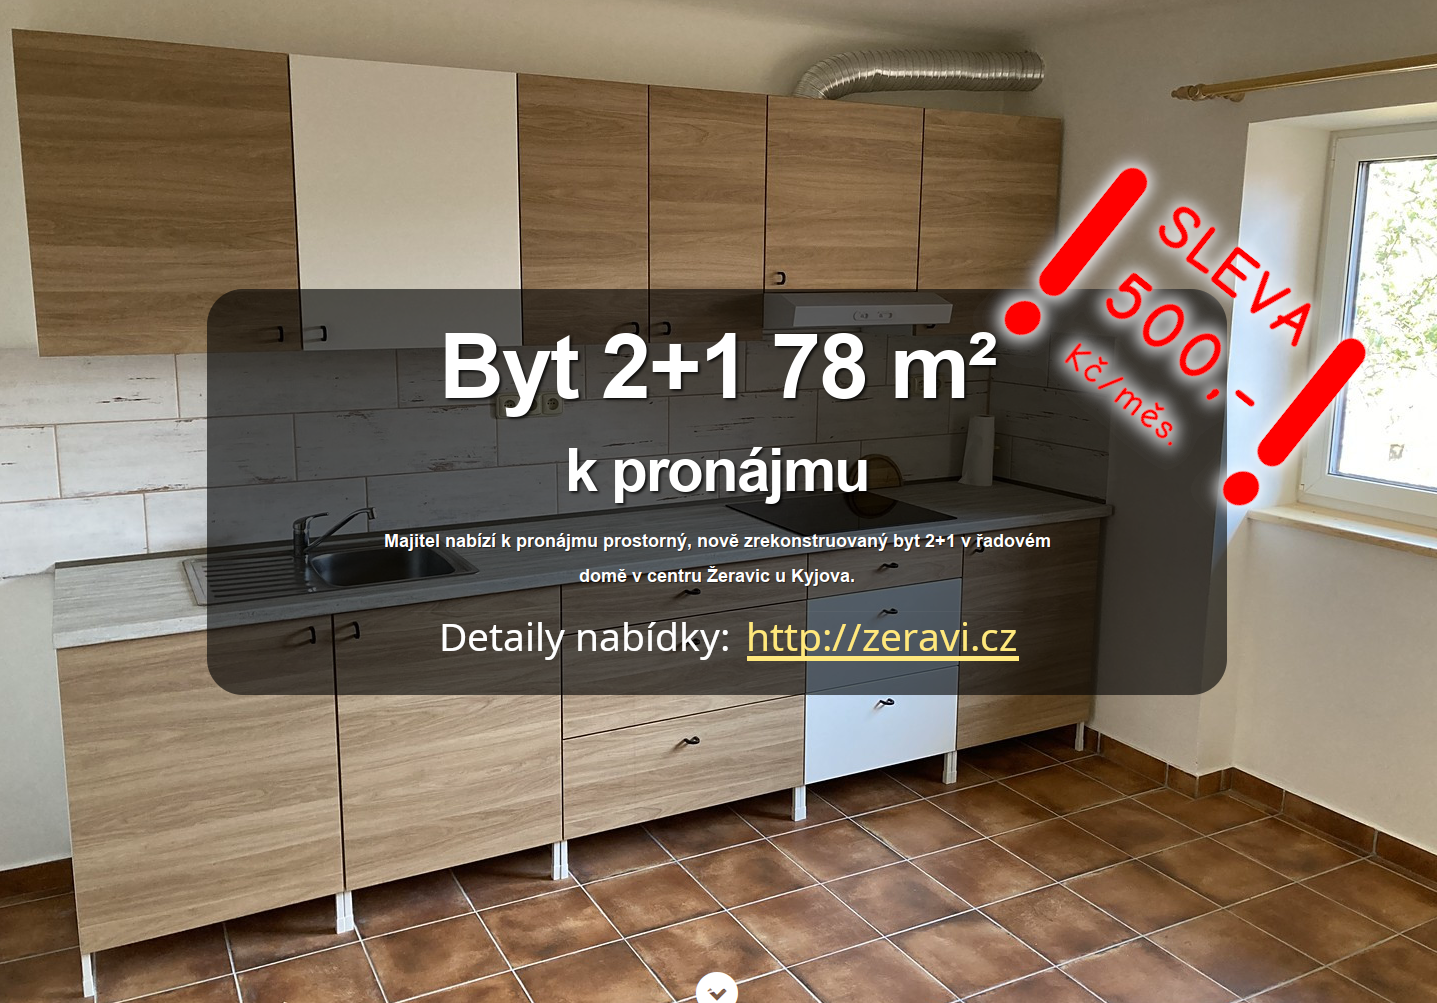
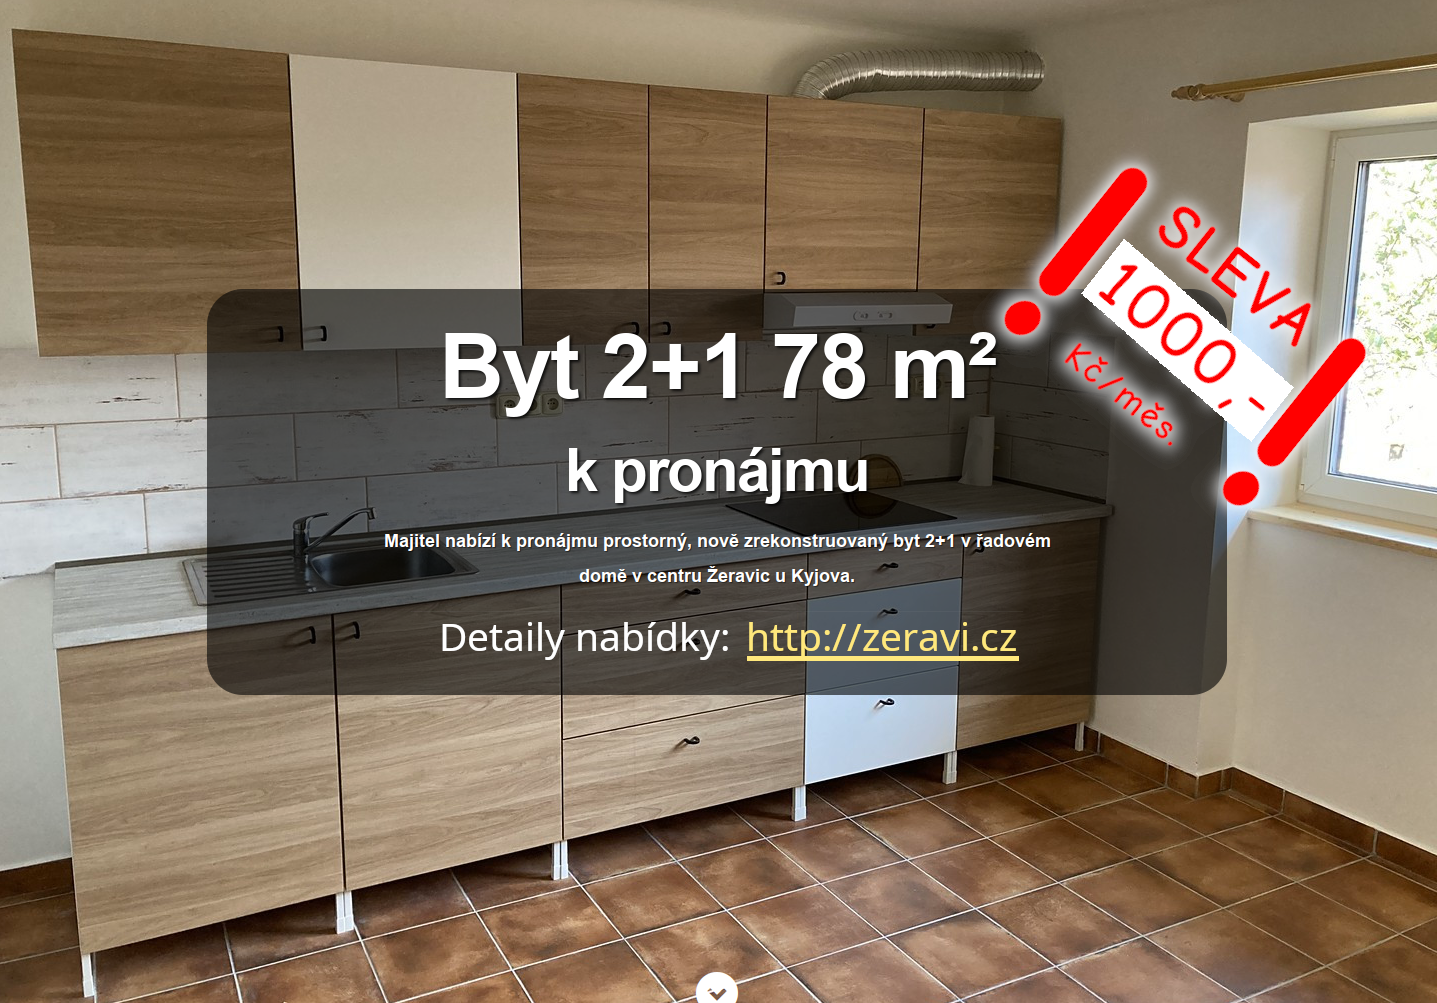
11500

Changed region(s): [[0.7349, 0.2473, 0.9186, 0.4327]]

diff --git a/src/Components/Podminky.js b/src/Components/Podminky.js
@@ -16,7 +16,7 @@ const Podminky = (props) => {
                     <ul>
                         <li>Termín nastěhování: ihned</li>
                         <li>Byt je pronajímán přímo majitelem, bez provize realitní kanceláři.</li>
-                        <li>Nájemné: 12000,- Kč/měs.</li>
+                        <li>Nájemné: 11500,- Kč/měs.</li>
                         <li>Zálohy na energie ve výši 2500,- Kč/měs.</li>
                         <li>Vratná kauce ve výši tří nájemných</li>
                         <li>Připojení k internetu je v ceně nájmu</li>
